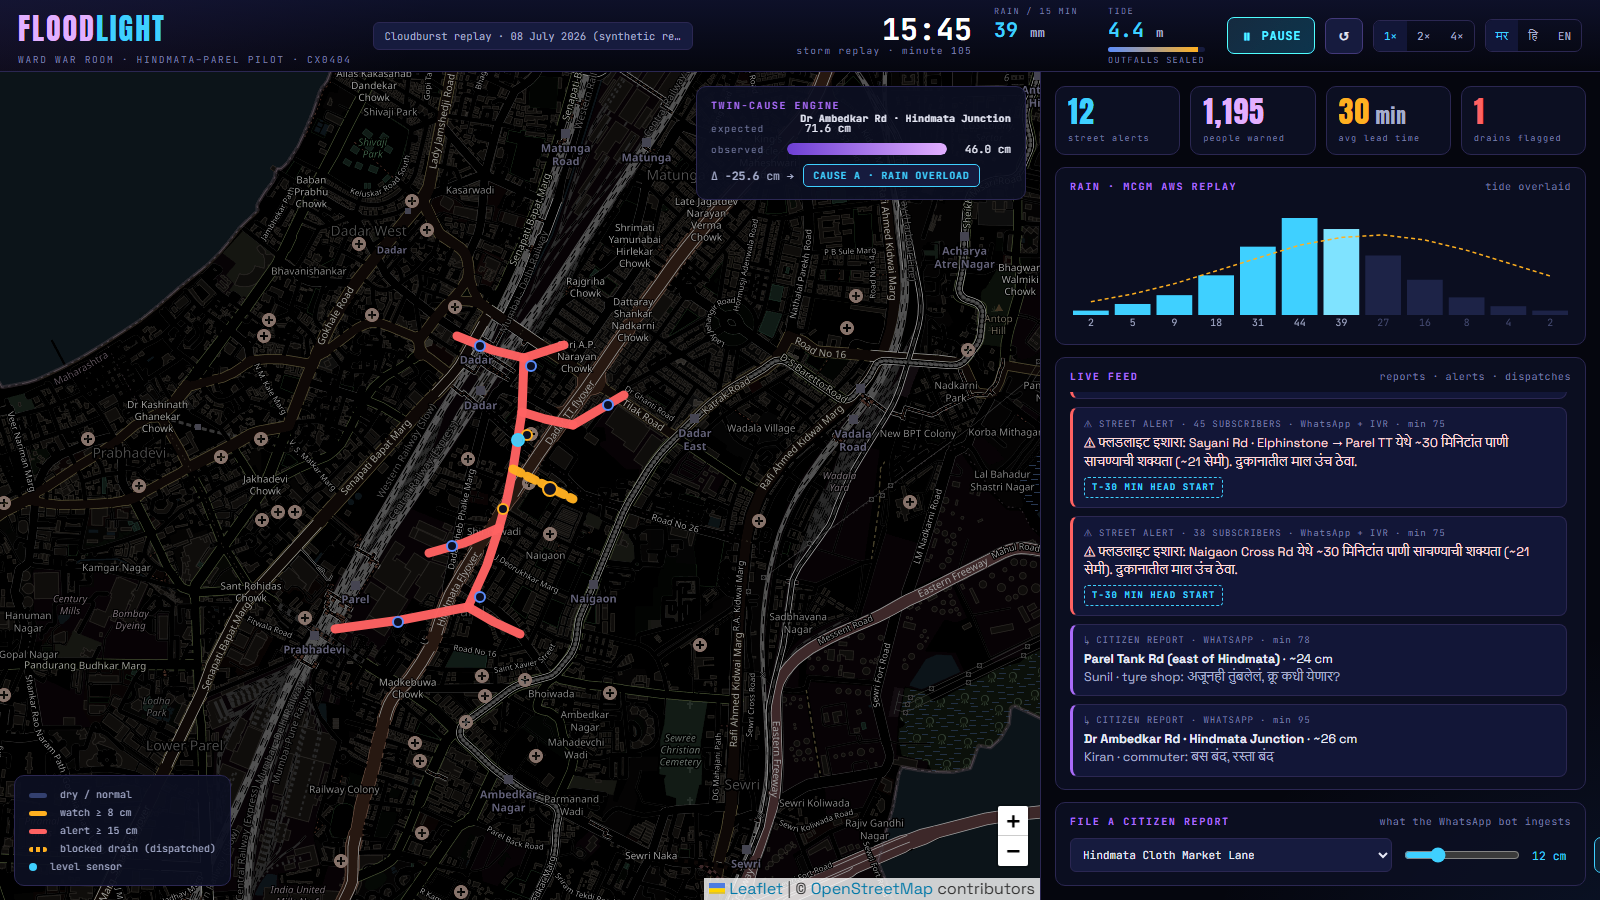
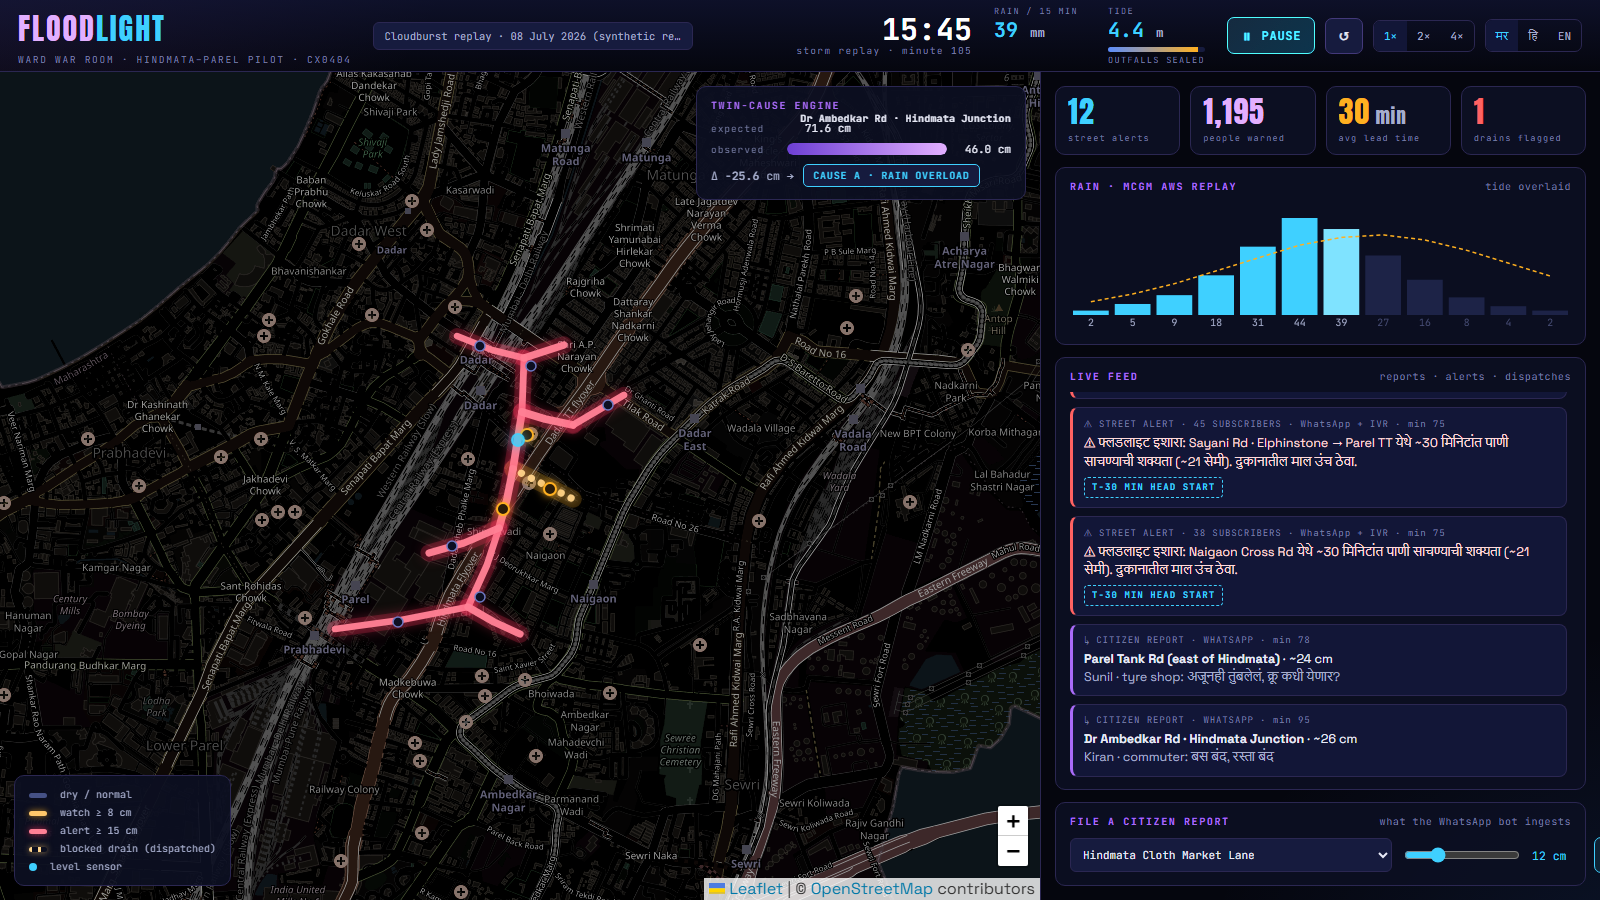
style(map): neon-glow street rendering — layered under-glow + bloom, depth-swell widths, beaded blocked-drain animation, pulsing sensor

Changed region(s): [[0.1875, 0.3422, 0.4062, 0.7156], [0.0, 0.9022, 0.0312, 0.9644]]

diff --git a/floodlight/static/app.js b/floodlight/static/app.js
@@ -33,15 +33,29 @@ L.tileLayer("https://tile.openstreetmap.org/{z}/{x}/{y}.png", {
   maxZoom: 19,
 }).addTo(map);
 
-function segStyle(row) {
-  const st = row ? row.state : "ok";
-  return {
-    color: st === "ok" ? "#4a5b9e" : COLORS[st],
-    weight: st === "ok" ? 6 : 9,
-    opacity: st === "ok" ? 0.85 : 0.97,
-    dashArray: st === "blocked" ? "9 7" : null,
-    lineCap: "round",
-  };
+/* Neon-glow street rendering: every segment is TWO strokes — a wide,
+   faint under-glow and a bright core (with a CSS drop-shadow bloom).
+   Dry streets stay quiet indigo veins; live states light up like signal. */
+const SEG_STYLES = {
+  ok:      { under: ["#26305e", 0.16, 9],  core: ["#5a68a8", 0.70, 3.5], cls: "seg-ok" },
+  watch:   { under: ["#ffb020", 0.18, 12], core: ["#ffc86a", 0.95, 5.0], cls: "seg-watch" },
+  alert:   { under: ["#ff3860", 0.22, 14], core: ["#ff8095", 0.97, 5.5], cls: "seg-alert" },
+  blocked: { under: ["#ffb020", 0.20, 13], core: ["#ffd48a", 0.95, 5.0], cls: "seg-blocked", dash: "0.1 11" },
+};
+
+function applySegStyle(id, row) {
+  const pair = state.layers[id];
+  if (!pair) return;
+  const st = SEG_STYLES[row ? row.state : "ok"];
+  const depth = row ? Math.max(row.expected_cm, row.observed_cm || 0) : 0;
+  const swell = Math.min(2.2, depth / 16);          // streets swell as water rises
+  pair.under.setStyle({ color: st.under[0], opacity: st.under[1], weight: st.under[2] + swell * 2 });
+  pair.core.setStyle({
+    color: st.core[0], opacity: st.core[1], weight: st.core[2] + swell,
+    dashArray: st.dash || null,
+  });
+  const el = pair.core.getElement();
+  if (el) el.setAttribute("class", `leaflet-interactive segcore ${st.cls}`);
 }
 
 // Leaflet measures its container at construction; flex layout can settle
@@ -64,28 +78,39 @@ async function initMeta() {
   state.meta = meta;
   document.getElementById("storm-name").textContent = meta.storm.name;
 
-  L.geoJSON(meta.segments_geojson, {
-    style: () => segStyle(null),
-    onEachFeature: (f, layer) => {
-      const id = f.properties.id;
-      state.layers[id] = layer;
-      layer.on("click", () => { state.focusSeg = id; renderEngineCard(); });
-      layer.bindPopup(() => {
-        const row = currentRow(id);
-        return row ? popupHtml(row) : f.properties.name;
-      });
-    },
-  }).addTo(map);
+  // Under-glows first (their own pane, beneath every core stroke).
+  map.createPane("glow");
+  map.getPane("glow").style.zIndex = 398;
+
+  for (const f of meta.segments_geojson.features) {
+    const id = f.properties.id;
+    const latlngs = f.geometry.coordinates.map(([lng, lat]) => [lat, lng]);
+    const under = L.polyline(latlngs, {
+      pane: "glow", color: "#26305e", opacity: 0.16, weight: 9,
+      lineCap: "round", lineJoin: "round", interactive: false,
+    }).addTo(map);
+    const core = L.polyline(latlngs, {
+      color: "#5a68a8", opacity: 0.7, weight: 3.5,
+      lineCap: "round", lineJoin: "round", className: "segcore seg-ok",
+    }).addTo(map);
+    state.layers[id] = { under, core };
+    core.on("click", () => { state.focusSeg = id; renderEngineCard(); });
+    core.bindPopup(() => {
+      const row = currentRow(id);
+      return row ? popupHtml(row) : f.properties.name;
+    });
+  }
 
   for (const d of meta.drains) {
     state.drainMarkers[d.id] = L.circleMarker([d.lat, d.lng], {
-      radius: 5, color: "#5b8dfc", fillColor: "#0c0f22", fillOpacity: 1, weight: 2,
+      radius: 4.5, color: "#6d79c4", fillColor: "#0c0f22", fillOpacity: 1, weight: 1.5,
     }).addTo(map).bindTooltip(`${d.id} · ${d.name}`, { direction: "top" });
   }
 
-  // The optional ₹2k ultrasonic node at Hindmata Junction.
+  // The optional ₹2k ultrasonic node at Hindmata Junction — soft cyan pulse.
   L.circleMarker([19.0154, 72.84465], {
-    radius: 6, color: COLORS.cyan, fillColor: COLORS.cyan, fillOpacity: 0.9, weight: 2,
+    radius: 5.5, color: COLORS.cyan, fillColor: COLORS.cyan, fillOpacity: 0.85, weight: 2,
+    className: "sensor-dot",
   }).addTo(map).bindTooltip("ultrasonic level sensor · Hindmata Jn", { direction: "top" });
 
   const sel = document.getElementById("rep-seg");
@@ -105,17 +130,19 @@ function currentRow(id) {
 }
 
 function renderMap() {
-  for (const row of state.snap.segments) {
-    const layer = state.layers[row.id];
-    if (layer) layer.setStyle(segStyle(row));
-  }
+  for (const row of state.snap.segments) applySegStyle(row.id, row);
   for (const d of state.snap.drains) {
     const m = state.drainMarkers[d.id];
     if (!m) continue;
+    const hot = d.dispatched || d.health < 60;
     m.setStyle({
-      color: d.dispatched ? COLORS.watch : d.health < 60 ? COLORS.watch : "#5b8dfc",
-      radius: d.dispatched ? 7 : 5,
+      color: hot ? COLORS.watch : "#6d79c4",
+      fillColor: hot ? "#2a1c08" : "#0c0f22",
+      weight: hot ? 2 : 1.5,
+      radius: hot ? 6 : 4.5,
     });
+    const el = m.getElement();
+    if (el) el.setAttribute("class", `leaflet-interactive ${hot ? "drain-hot" : ""}`);
   }
 }
 

diff --git a/floodlight/static/style.css b/floodlight/static/style.css
@@ -85,6 +85,20 @@ small { font-size: .62em; color: var(--mut); }
 #map-wrap { flex: 1.45; position: relative; }
 #map { position: absolute; inset: 0; background: #070915; }
 .dark-tiles { filter: invert(1) hue-rotate(190deg) brightness(0.62) contrast(1.15) saturate(0.35); }
+
+/* Neon street strokes: bloom per state; blocked drains march amber beads. */
+.segcore { transition: stroke 0.4s, stroke-width 0.4s; }
+.seg-watch { filter: drop-shadow(0 0 4px rgba(255, 176, 32, 0.55)); }
+.seg-alert { filter: drop-shadow(0 0 7px rgba(255, 56, 96, 0.65)); }
+.seg-blocked {
+  filter: drop-shadow(0 0 5px rgba(255, 200, 106, 0.7));
+  stroke-linecap: round;
+  animation: beadmarch 1.5s linear infinite;
+}
+@keyframes beadmarch { to { stroke-dashoffset: -22.2; } }
+.sensor-dot { filter: drop-shadow(0 0 6px rgba(63, 208, 255, 0.85)); animation: sensorpulse 2.4s ease-in-out infinite; }
+@keyframes sensorpulse { 50% { fill-opacity: 0.35; stroke-opacity: 0.5; } }
+.drain-hot { filter: drop-shadow(0 0 5px rgba(255, 176, 32, 0.8)); }
 .leaflet-container { font: inherit; }
 
 .panel {
@@ -99,10 +113,10 @@ small { font-size: .62em; color: var(--mut); }
   display: flex; flex-direction: column; gap: 5px; font-size: 10px; color: var(--mut);
 }
 .sw { display: inline-block; width: 18px; height: 5px; border-radius: 3px; margin-right: 7px; vertical-align: middle; }
-.sw.ok { background: #33406f; }
-.sw.watch { background: var(--amber); }
-.sw.alert { background: var(--red); }
-.sw.blocked { background: repeating-linear-gradient(90deg, var(--amber) 0 4px, transparent 4px 7px); }
+.sw.ok { background: #5a68a8; opacity: 0.75; }
+.sw.watch { background: #ffc86a; box-shadow: 0 0 6px rgba(255, 176, 32, 0.7); }
+.sw.alert { background: #ff8095; box-shadow: 0 0 7px rgba(255, 56, 96, 0.75); }
+.sw.blocked { background: repeating-linear-gradient(90deg, #ffd48a 0 3px, transparent 3px 9px); border-radius: 3px; box-shadow: 0 0 6px rgba(255, 200, 106, 0.6); }
 .sw.sensor { background: var(--cyan); width: 8px; height: 8px; border-radius: 50%; }
 
 #engine-card { position: absolute; right: 14px; top: 14px; z-index: 900; width: 330px; }
